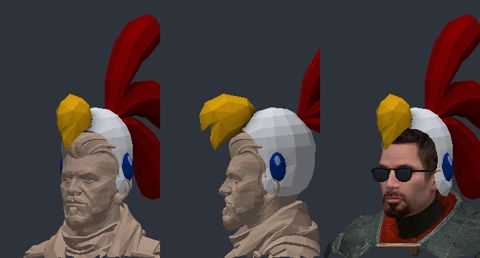
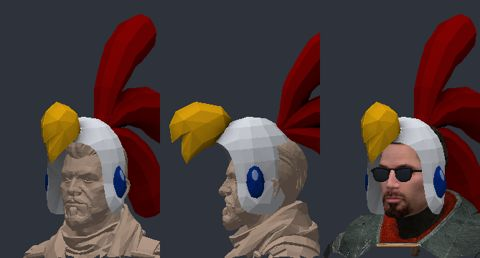
[create] hats: billyhatcherhat refit (scale 110 %, forward 2, down 1)

Changed region(s): [[0.0625, 0.031, 0.6875, 0.8682], [0.75, 0.031, 1.0, 0.8372]]

diff --git a/create/hats/HATS.md b/create/hats/HATS.md
@@ -189,7 +189,7 @@ moves with it through its `fit` choice).
 | `rubikscube` | autofit mask (scale 0.50) | kind mask | 4 |
 | `teamrockethat` | autofit hat (scale 1.36) |  | 4 |
 | `turkey` | autofit hat (scale 1.07) | offset [2.0, 0, 4.0] | 4 |
-| `billyhatcherhat` | autofit hat (scale 0.85) | offset [-9.0, 0, -3.0] | 4 |
+| `billyhatcherhat` | autofit hat (scale 0.85) | offset [-7.0, 0, -4.0], scale 1.1 | 5 |
 | `blackmage_hat` | autofit hat (scale 0.40) |  | 4 |
 | `cuboneskull` | autofit mask (scale 0.84) | offset [5.0, 0, 1.0], rotate [30, 0, 0], scale 1.1 | 4 |
 | `generalpepperhat` | autofit hat (scale 0.83) | offset [3.0, 0, 0.0] | 4 |
